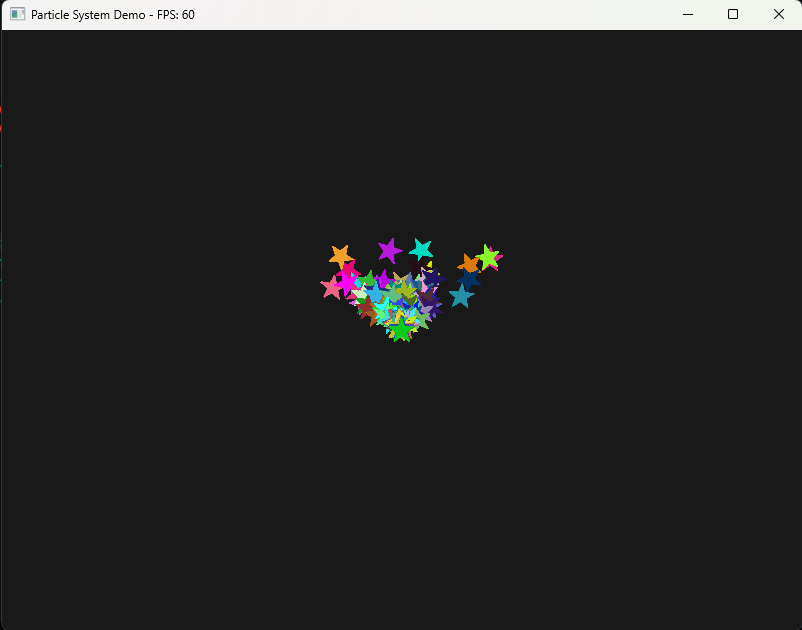
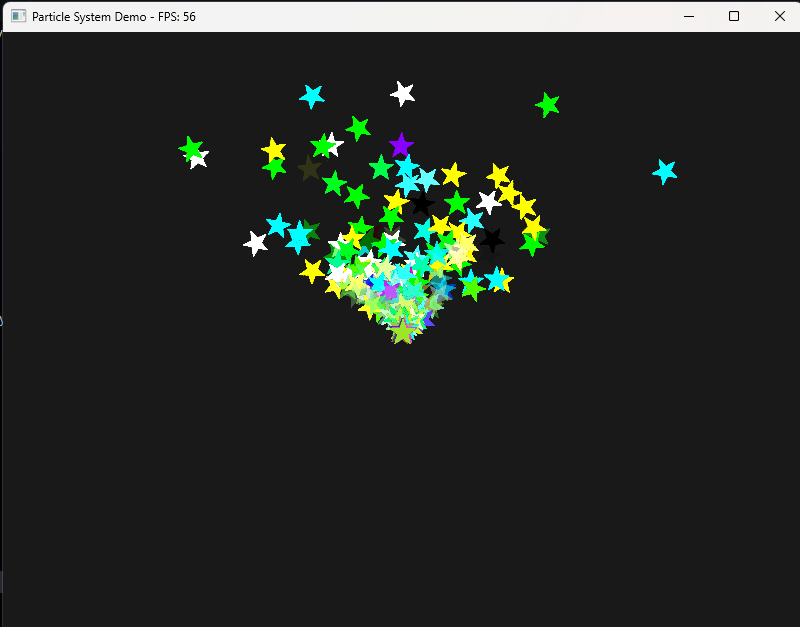
cooler example particles

diff --git a/examples/particle.py b/examples/particle.py
@@ -15,7 +15,7 @@ textures = LoadTextures()
 
 test_particle_type = ParticleType2d(
     texture=shapes.star, 
-    lifetime=Range(1,2), 
+    lifetime=Range(1,6), 
     x_speed=Range(-50, 50), 
     y_speed=Range(25, 50),
     rotation_speed=Range(-180, 180),
@@ -24,6 +24,10 @@ test_particle_type = ParticleType2d(
     color_r=Range(0,255),
     color_g=Range(0,255),
     color_b=Range(0,255),
+    color_r_speed=Range(-1, 1),
+    color_g_speed=Range(-1, 11),
+    color_b_speed=Range(-1, 1),
+    color_a_speed=Range(-1, 1)
 )
 
 Particle2d(test_particle_type, x=200, y=200)
